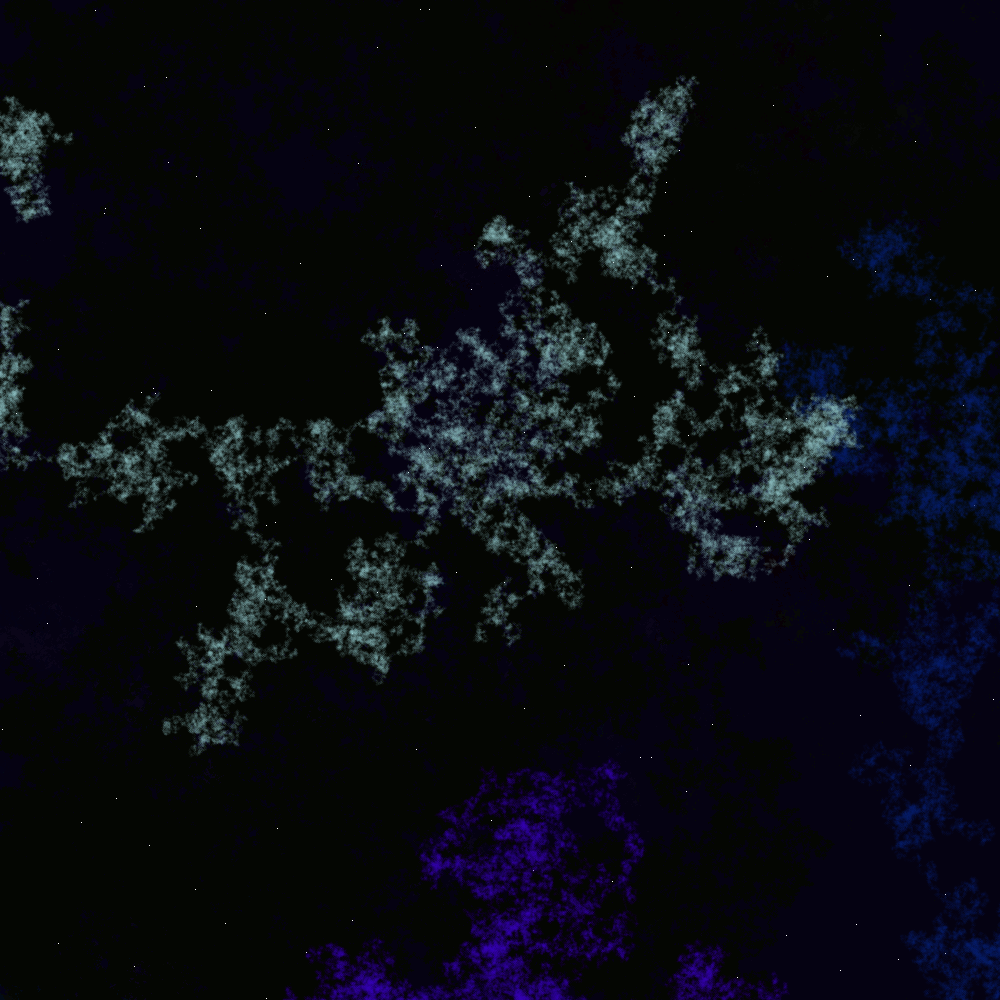
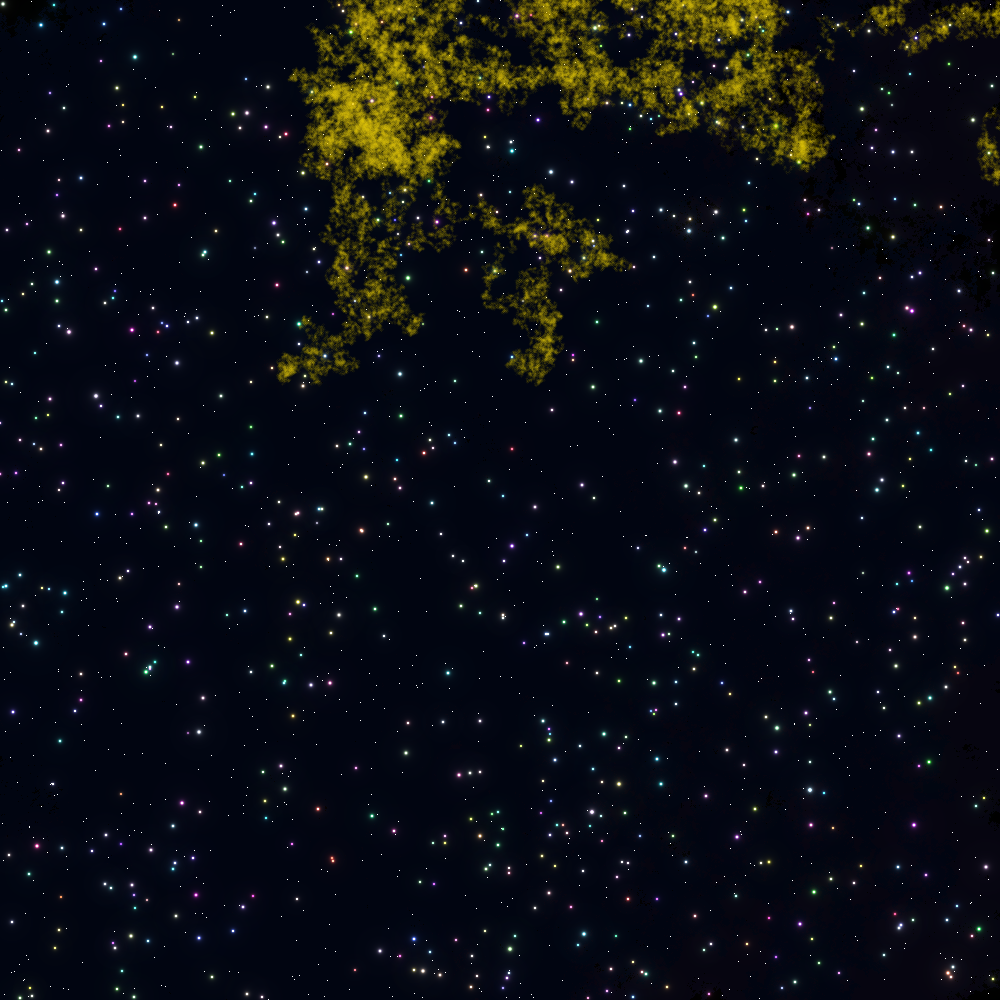
Stars generates using Shader -> looks much better

diff --git a/include/SpaceGenerator.h b/include/SpaceGenerator.h
@@ -2,6 +2,7 @@
 #define SPACEGENERATOR_H
 
 #include "rGUI.h"
+#include "allegro5/allegro_opengl.h"
 #include <ctime>
 #include <cmath>
 #include <random>
@@ -35,6 +36,111 @@ public:
     ALLEGRO_BITMAP* Generate();
     bool Proc(int &chance);
 
+};
+
+class Stars
+{
+private:
+std::string vertexshaderstring = "uniform mat4 al_projview_matrix;"
+"attribute vec4 al_pos;"
+"void main(void) {"
+"gl_Position = al_projview_matrix*al_pos;"
+"}";
+
+std::string pixelshaderstring = "uniform vec2 lightpos;"
+"uniform vec3 lightColor;"
+"uniform vec3 lightAttenuation;"
+"uniform float radius;"
+"uniform float sh;"
+"uniform sampler2D texture;"
+"void main()"
+"{"
+"	vec2 pixel=gl_FragCoord.xy;"
+"   pixel.y = sh - pixel.y;"
+"	vec2 aux=lightpos-pixel;"
+"	float distance=length(aux);"
+"	float attenuation=1.0/(lightAttenuation.x+lightAttenuation.y*distance+lightAttenuation.z*distance*distance);"
+"	vec4 color=vec4(attenuation,attenuation,attenuation,1.0)*vec4(lightColor,1.0);"
+"	gl_FragColor = color;"
+"}";
+
+public:
+    struct star{
+        star(float _x, float _y, float _z, ALLEGRO_COLOR co) : x(_x), y(_y), z(_z), col(co){}
+        float x,y,z;
+        ALLEGRO_COLOR col;
+    };
+    float w,h;
+    std::vector<star*> sv;
+    ALLEGRO_BITMAP *bmp = nullptr;
+    ALLEGRO_BITMAP *refbmp;
+    ALLEGRO_SHADER *Shader = nullptr;
+
+    Stars(float _w, float _h) : w(_w), h(_h)
+    {
+        Shader = al_create_shader(ALLEGRO_SHADER_GLSL);
+        al_attach_shader_source(Shader, ALLEGRO_VERTEX_SHADER, vertexshaderstring.c_str());
+        al_attach_shader_source(Shader, ALLEGRO_PIXEL_SHADER, pixelshaderstring.c_str());
+        al_build_shader(Shader);
+        std::cout << al_get_shader_log(Shader) << std::endl;
+
+        bmp = al_create_bitmap(w,h);
+    }
+
+    ~Stars()
+    {
+        if(bmp != nullptr)
+        {
+            al_destroy_bitmap(bmp);
+        }
+        if(Shader != nullptr)
+        {
+            al_destroy_shader(Shader);
+        }
+
+        for(int a = sv.size()-1;a >= 0;--a)
+        {
+            delete sv[a];
+        }
+        sv.clear();
+    }
+
+    ALLEGRO_BITMAP* Render()
+    {
+        refbmp = al_get_target_bitmap();
+        al_set_target_bitmap(bmp);
+
+        float lightpos[2];
+        float lightAttenuation[3];
+        float lightColor[3];
+
+        al_clear_to_color(al_map_rgba(0,0,0,0));
+        al_set_blender(ALLEGRO_ADD, ALLEGRO_ONE,  ALLEGRO_ONE);
+        al_use_shader(Shader);
+        al_set_shader_float("sh", h);
+        al_set_shader_float("radius", 0);
+
+        for(int a = 0;a < sv.size();a++)
+        {
+            lightpos[0] = sv[a]->x;
+            lightpos[1] = sv[a]->y;
+
+            lightColor[0] = sv[a]->col.r;
+            lightColor[1] = sv[a]->col.g;
+            lightColor[2] = sv[a]->col.b;
+
+            lightAttenuation[0] = 0.0;
+            lightAttenuation[1] = 0.0;
+            lightAttenuation[2] = sv[a]->z;
+
+            al_set_shader_float_vector("lightpos", 2, lightpos, 1);
+            al_set_shader_float_vector("lightAttenuation", 3, lightAttenuation, 1);
+            al_set_shader_float_vector("lightColor", 3, lightColor, 1);
+            al_draw_filled_rectangle(lightpos[0] - 100 ,lightpos[1] -100 ,lightpos[0] + 100 ,lightpos[1] + 100 , al_map_rgba(0,0,0,0));
+        }
+        al_set_target_bitmap(refbmp);
+        return bmp;
+    }
 };
 
 #endif // SPACEGENERATOR_H

diff --git a/src/SpaceGenerator.cpp b/src/SpaceGenerator.cpp
@@ -104,6 +104,10 @@ ALLEGRO_BITMAP* SpaceGenerator::Generate()
         //someshit(x, y, rand() % (w*h), al_premul_rgba(1+rand()%255, 1+rand()%255,1+rand()%255, 1+rand()%25));
     }
 
+    Stars *strs = new Stars(w,h);
+    int b1,b2,b3;
+    al_get_blender(&b1,&b2,&b3);
+
     int r = 0;
     for(int a = 0;a < w;a++)
     {
@@ -115,37 +119,13 @@ ALLEGRO_BITMAP* SpaceGenerator::Generate()
             }
             if(Proc(bs) == true) //255,255,204
             {
-                r = 1+ rand() % 2;
-                al_draw_filled_ellipse(a,b, 1 + rand() %2, 1 + rand() %2,clWhite);
-                al_draw_filled_circle(a -1 + rand() % 3, b -1 + rand() % 3, r - rand()%2, al_map_rgb(255,255,255));
-                //glow
-                al_draw_filled_circle(a, b, r + 1+rand()%5, al_premul_rgba(255,255,255, 1 + rand() % 20));
-
-                int rng = rand() % 3;
-                if(rng == 0)
-                {
-                    r = rand() % 3;
-                    al_draw_filled_circle(a, b, r, al_premul_rgba(255,255,150+rand()%10, 230 +rand()%15));
-                    al_draw_filled_circle(a -1 + rand() % 3, b -1 + rand() % 3, r- rand()%4,
-                                          al_premul_rgba(255,255,50+rand()%200, 230 +rand()%15));
-                }
-                else if(rng == 1)
-                {
-                    r = rand() % 3; //255, 204, 153
-                    al_draw_filled_circle(a, b, r, al_premul_rgba(255,69,0, 100 +rand()%15));
-                    al_draw_filled_circle(a -1 + rand() % 3, b -1 + rand() % 3, r- rand()%4,
-                                          al_premul_rgba(255,69,0, 100 +rand()%15));
-                }
-                else if(rng == 2)
-                {
-                    r = rand() % 3; //304, 229, 255
-                    al_draw_filled_circle(a, b, r, al_premul_rgba(135,206,250, 230 +rand()%15));
-                    al_draw_filled_circle(a -1 + rand() % 3, b -1 + rand() % 3, r- rand()%4,
-                                          al_premul_rgba(135,206,250, 230 +rand()%15));
-                }
+                strs->sv.push_back(new Stars::star(a, b, (float)(rand()%1000)/1000.0 +0.40, al_map_rgb(rand()%200 +55,rand()%200 +55,rand()%200 +55)));
             }
         }
     }
+    al_draw_bitmap(strs->Render(), 0,0,0);
+    al_set_blender(b1,b2,b3);
+    delete strs;
     //trash = rand() % 3;
     /*for(int c = 0; c < 1; c++)
     {
